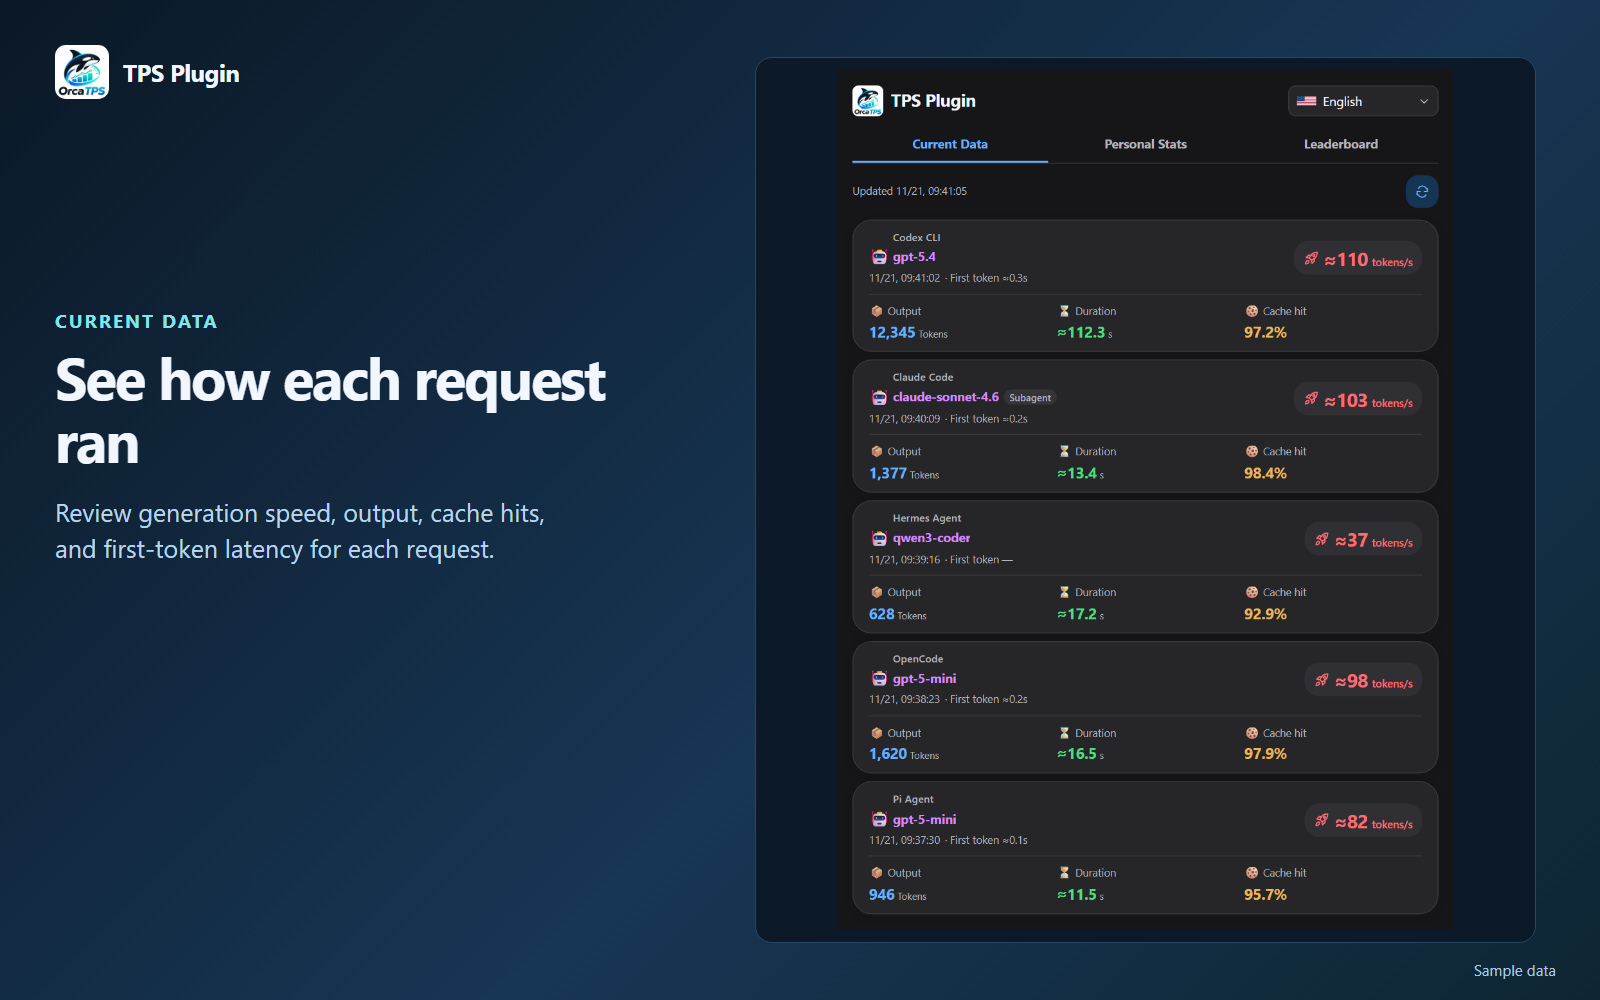
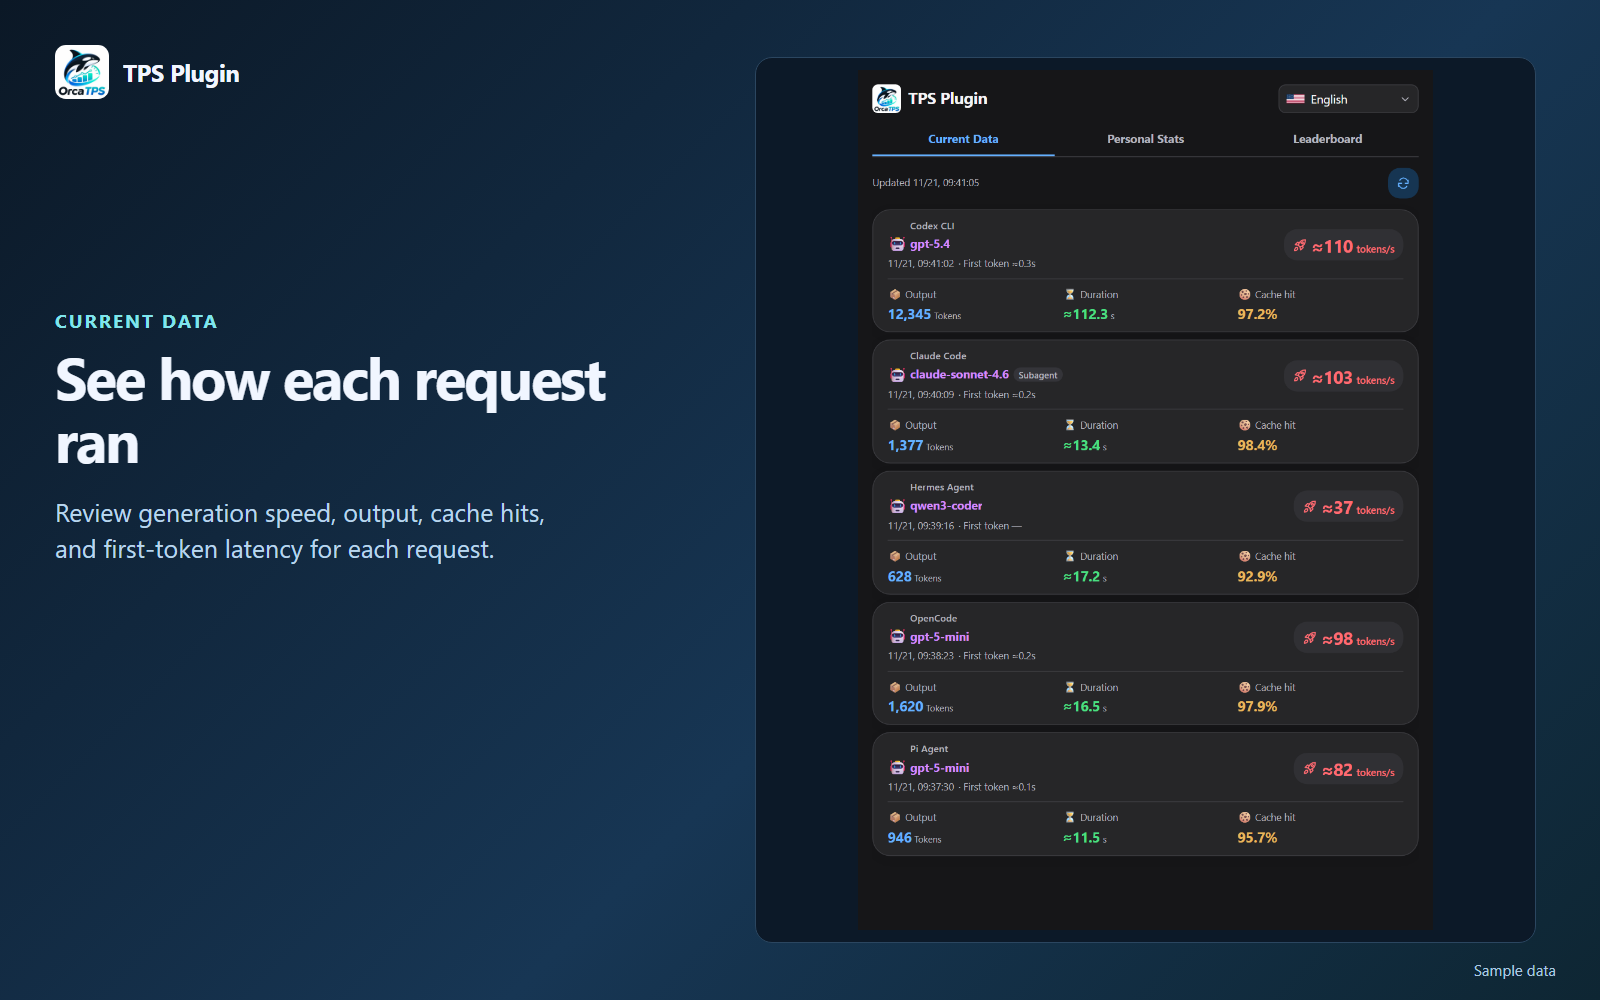
ui: scroll Current Data requests independently
Keep the update time and refresh button above a viewport-sized list. Return the request list to the top when the channel changes.

diff --git a/src/panel.html b/src/panel.html
@@ -130,10 +130,11 @@
     .panel-tab:focus-visible, .panel-view:focus-visible { outline: 2px solid var(--blue); outline-offset: 2px; }
     .panel-view { margin-top: 12px; }
     #usage, #leaderboard { display: grid; gap: 8px; }
-    #panel:has(> #usage:not([hidden])) {
+    #panel:has(> :is(#usage, #current-data):not([hidden])) {
       display: grid; grid-template: auto auto minmax(0, 1fr) / minmax(0, 1fr);
       block-size: calc(100dvh - 32px);
     }
+    #current-data { display: grid; grid-template: auto minmax(96px, 1fr) / minmax(0, 1fr); min-block-size: 0; }
     #usage { grid-template: auto auto minmax(0, 1fr) / minmax(0, 1fr); min-block-size: 0; }
     .usage-breakdown {
       display: grid; grid-template-rows: repeat(2, minmax(112px, 1fr)) 180px; gap: 8px;
@@ -141,8 +142,8 @@
     }
     .usage-ranking, .heat { display: grid; min-inline-size: 0; }
     .usage-ranking { grid-template-rows: auto minmax(0, 1fr); }
-    .usage-scroll { min-inline-size: 0; overflow-y: auto; scrollbar-width: thin; }
-    .usage-scroll:focus-visible { outline: 2px solid var(--blue); outline-offset: -2px; }
+    .usage-scroll, #current-scroll { min-inline-size: 0; overflow-y: auto; scrollbar-width: thin; }
+    .usage-scroll:focus-visible, #current-scroll:focus-visible { outline: 2px solid var(--blue); outline-offset: -2px; }
     .section-head { display: flex; align-items: baseline; justify-content: space-between; flex-wrap: wrap; gap: 2px 8px; }
     .section-title { margin: 0; color: var(--ink); font-size: 13px; line-height: 1.6; font-weight: 700; }
     .section-detail { margin: 0; color: var(--muted); font-size: 11px; }
@@ -762,13 +763,15 @@
           <svg viewBox="0 0 24 24" fill="none" stroke="currentColor" stroke-width="1.8" stroke-linecap="round" stroke-linejoin="round" aria-hidden="true"><path d="M20 7v5h-5M4 17v-5h5"/><path d="M6.1 7a7 7 0 0 1 11.6-1L20 9M4 15l2.3 3A7 7 0 0 0 17.9 17"/></svg>
         </button>
       </div>
-      <div class="message message-error" id="error" data-testid="error" role="alert" data-localized-text hidden></div>
-      <div class="messages" id="warnings"></div>
-      <p class="loading" id="loading" data-testid="loading" role="status" aria-live="polite" data-localized-text><span data-i18n="reading-conversation"></span></p>
-      <ol class="records" id="records" data-i18n-aria-label="per-request-speeds"></ol>
-      <div class="empty" id="empty" data-testid="empty" hidden>
-        <span class="empty-icon" aria-hidden="true">🚀</span>
-        <p class="empty-text" id="empty-text" data-localized-text></p>
+      <div id="current-scroll" role="region" tabindex="0" data-i18n-aria-label="per-request-speeds">
+        <div class="message message-error" id="error" data-testid="error" role="alert" data-localized-text hidden></div>
+        <div class="messages" id="warnings"></div>
+        <p class="loading" id="loading" data-testid="loading" role="status" aria-live="polite" data-localized-text><span data-i18n="reading-conversation"></span></p>
+        <ol class="records" id="records" data-i18n-aria-label="per-request-speeds"></ol>
+        <div class="empty" id="empty" data-testid="empty" hidden>
+          <span class="empty-icon" aria-hidden="true">🚀</span>
+          <p class="empty-text" id="empty-text" data-localized-text></p>
+        </div>
       </div>
     </section>
   </main>
@@ -998,7 +1001,7 @@
     (() => {
       'use strict';
       const byId = id => document.getElementById(id);
-      const ui = Object.fromEntries(['current-data', 'updated', 'refresh', 'error', 'warnings', 'loading', 'records', 'empty', 'empty-text', 'record-template'].map(id => [id, byId(id)]));
+      const ui = Object.fromEntries(['current-data', 'current-scroll', 'updated', 'refresh', 'error', 'warnings', 'loading', 'records', 'empty', 'empty-text', 'record-template'].map(id => [id, byId(id)]));
       const views = [...byId('panel-tabs').children];
       const lifetime = new AbortController();
       const bridge = window.orca?.plugin;
@@ -1463,7 +1466,8 @@
         ui['empty-text'].textContent = String(current?.emptyMessage || t('empty-current-records')).slice(0, 1000);
         if (resetScroll) {
           resetScroll = false;
-          if (!ui['current-data'].hidden) window.scrollTo(0, 0);
+          ui['current-scroll'].scrollTop = 0;
+          window.scrollTo(0, 0);
         }
       }
       function scheduleCurrent() {
